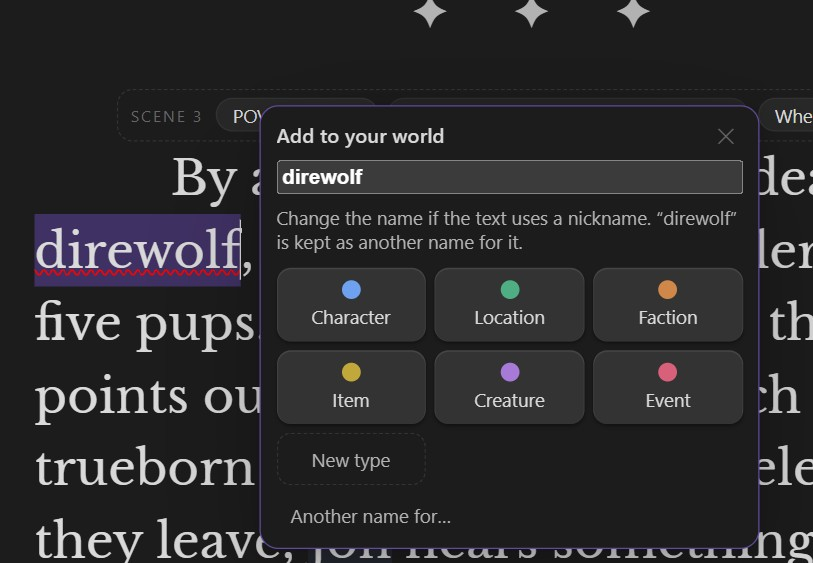
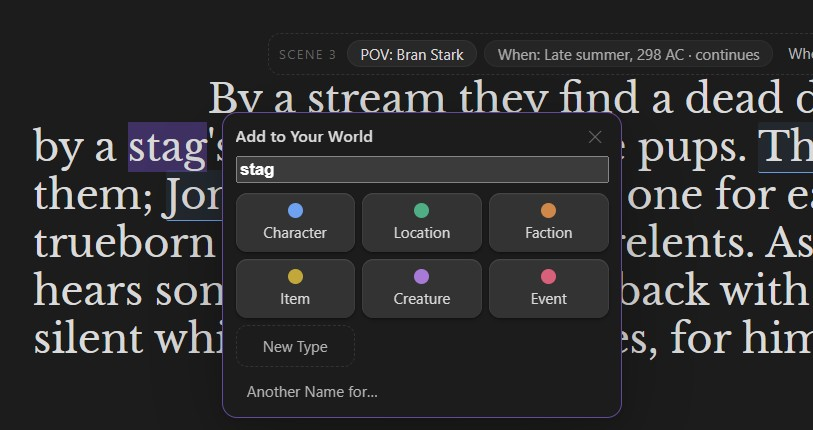
README pictures of the new timeline, capture box and book look
The capture box's "New Type" button is Title Case, and its name hint is now a hover tip.

diff --git a/src/capture.ts b/src/capture.ts
@@ -118,7 +118,7 @@ export class Capture {
       b.dataset.type = t.id; b.style.setProperty('--se-c', t.color);
       b.append(el('span', 'se-sw'), document.createTextNode(t.label)); grid.append(b);
     }
-    const add = this.button('New type', () => {
+    const add = this.button('New Type', () => {
       if (grid.querySelector('.se-inline')) return;
       const row = el('div', 'se-inline'); const input = el('input'); input.placeholder = 'Type Name';
       const kind = el('select', 'dropdown'); for (const [v, l] of M.BEHAVIOURS) { const o = el('option', '', l); o.value = v; kind.append(o); }
@@ -185,8 +185,8 @@ export class Capture {
       void this.create(n, t, name && name !== n && !manual ? [name] : [], passage);
     });
     const nodes: (Node | false)[] = [this.header(manual ? 'New Piece' : passage ? 'Add This Passage as…' : 'Add to Your World'), nameInput];
-    if (name && !manual) nodes.push(el('div', 'se-small', `Change the name if the text uses a nickname. “${name}” is kept as another name for it.`));
-    if (passage) nodes.push(el('div', 'se-small', 'The highlighted passage becomes its description.'));
+    if (name && !manual) tip(nameInput, `Name\nChange it if the text uses a nickname\n“${name}” is kept as another name for it`);
+    else if (passage) tip(nameInput, 'Name\nThe highlighted passage becomes its description');
     nodes.push(grid);
     if (name && !manual && project.pieces.size) { const row = el('div', 'se-acts'); row.append(this.button('Another Name for…', () => this.aliasMenu(name), 'se-btn se-btn-ghost se-btn-small se-left')); nodes.push(row); }
     this.render(nodes);

diff --git a/README.md b/README.md
@@ -6,7 +6,7 @@ Write your chapters in Obsidian with a book layout, and build your world from th
 
 ![A chapter in the book layout next to the World view: the map, the pieces and the timeline](docs/images/1-overview.jpg)
 
-*Write on the left; the World view on the right shows where everyone is in the scene you're on. The scene bar above each scene sets its POV, when and where.*
+*Write on the left; the World view on the right shows where everyone is in the scene you're on. The scene bar above each scene sets its POV and when; where comes from the map.*
 
 ![Inside Winterfell: characters at their spots, an event flag, connection lines and a character's card](docs/images/2-inside-map.jpg)
 
@@ -14,8 +14,8 @@ Write your chapters in Obsidian with a book layout, and build your world from th
 
 | Highlight a name to add it | The timeline |
 |---|---|
-| ![The capture box after highlighting a word in a chapter](docs/images/3-capture.jpg) | ![The timeline: moments, a time skip, scenes at the same time, events and story lines](docs/images/4-timeline.jpg) |
-| *Pick what it is; a description, connections and where it is can follow.* | *Named moments, time skips, parallel scenes, events and each POV character's path between places. Drag scenes, events and moments to change them.* |
+| ![The capture box after highlighting a word in a chapter](docs/images/3-capture.jpg) | ![The timeline: dates, a time skip, scene boxes with their events and cast, and Find showing Bran's scenes](docs/images/4-timeline.jpg) |
+| *Pick what it is; a description, connections and where it is can follow.* | *Dates, time skips, scenes at the same time, and each scene's events and cast. Find lights up the scenes a character is in. Drag scenes, events and dates to change them.* |
 
 ![The book look's settings and a chapter on paper](docs/images/5-paper.jpg)
 
